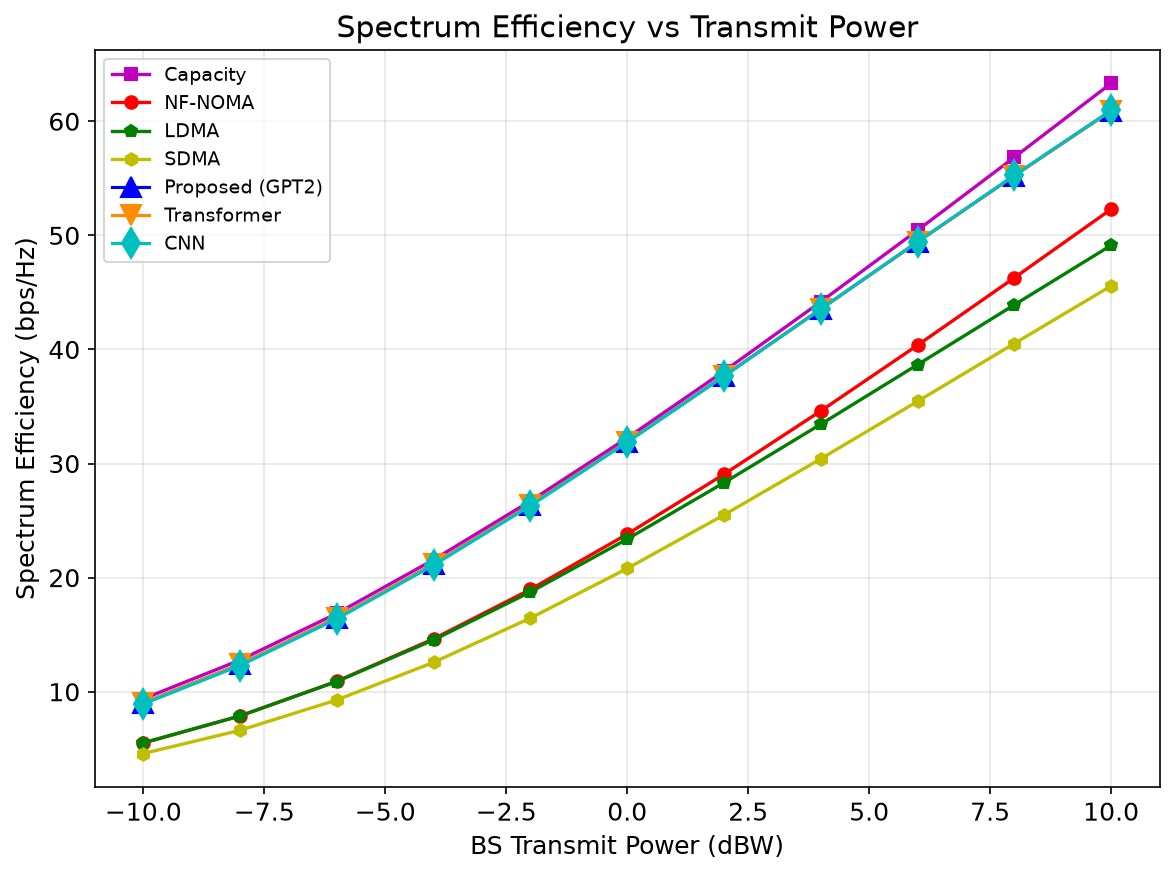
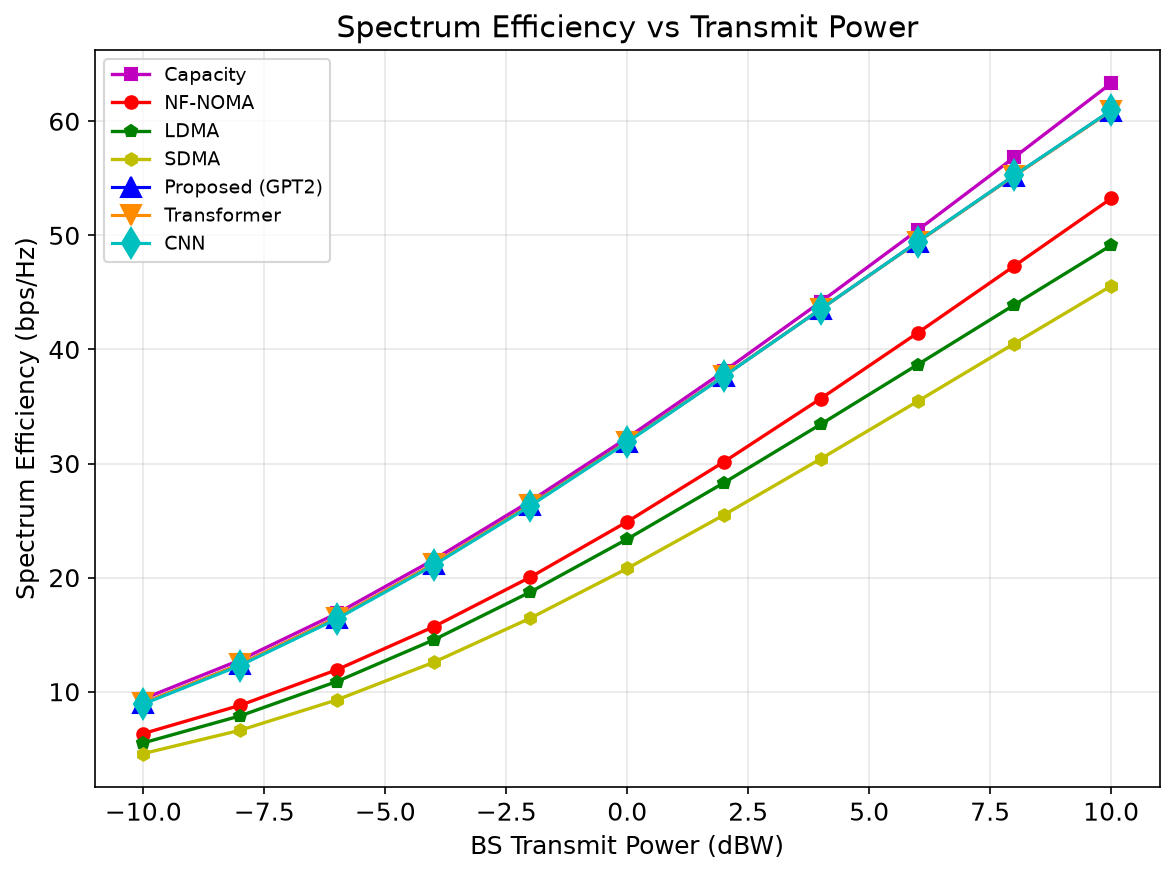
[接入] eval_baselines NOMA分支改用作者官方链NF_group_1→NF_NOMA(Imax=30,SE(end))：全量重评17点，其余baseline逐位不变；官方值比Python端口+0.4~1.1，距论文-0.5~-3.2（已知实现差异）

diff --git a/eval_baselines.py b/eval_baselines.py
@@ -23,7 +23,9 @@ base_output = r"C:\Users\17859\Desktop\files\Grad_Project\LLM for LAE\Codes_v1\o
 
 parser = argparse.ArgumentParser()
 parser.add_argument('--quick', action='store_true', help='Skip Rmin/alpha sweeps')
-parser.add_argument('--matlab', action='store_true', help='Use MATLAB NOMA (author fmincon+WMMSE)')
+parser.add_argument('--matlab', action='store_true', help='(deprecated) NOMA 默认已是作者官方链；本开关无额外作用')
+parser.add_argument('--noma-python', action='store_true',
+                    help='NF-NOMA 用旧 Python 端口 noma_rate（对照用）；默认用作者官方链 NF_group_1→NF_NOMA')
 args = parser.parse_args()
 
 
@@ -531,6 +533,55 @@ def eval_baseline_with_penalty(loader, rate_fn, K_eval=None, sigma2=None, P_tota
     return np.mean(rates)
 
 
+# ===================== NF-NOMA 官方调用链（作者 [34] 实现）=====================#
+
+NOMA_OFFICIAL_CACHE = {}
+
+
+def eval_noma_official(test_loader, K_eval=None, sigma2=None, P_total=1.0):
+    """NF-NOMA = 作者官方调用链 NF_group_1→NF_NOMA(Hr,F,setf,K,rf,σ²,P,Imax=30)
+    （codes-NFNOMA/main_near_field_NOMA.m:168-190 同款），报告口径 SE(end)（main:207）。
+    经 MATLAB 并行执行；与 eval_baseline 相同返回值（样本均值 float）。
+    按 (K_eval, sigma2, P_total) 缓存，供 K/P 扫描与 Fig.7/8 常数线复用。"""
+    if sigma2 is None:
+        sigma2 = 10 ** (-20 / 10)
+    if K_eval is None:
+        K_eval = K
+    key = (int(K_eval), round(float(sigma2), 12), round(float(P_total), 12))
+    if key in NOMA_OFFICIAL_CACHE:
+        return NOMA_OFFICIAL_CACHE[key]
+
+    import subprocess
+    import scipy.io as sio
+    import time as _time
+
+    H_list = []
+    with torch.no_grad():
+        for data in test_loader:
+            H_list.append(_extract_H(data, K_eval))
+    H_all = torch.cat(H_list, dim=0).cpu().numpy().astype(np.complex128)   # [B,K,N] complex
+
+    mat_in = os.path.join(base_output, '_noma_official_input.mat')
+    mat_out = os.path.join(base_output, '_noma_official_output.mat')
+    sio.savemat(mat_in, {'H_batch': H_all, 'sigma2': float(sigma2), 'P_total': float(P_total)})
+
+    drv_dir = os.path.join(base_output, '_author_matlab')
+    cmd = f"addpath('{drv_dir}'); run_noma_official_batch('{mat_in}','{mat_out}')"
+    matlab = r'C:\Program Files\MATLAB\R2024a\bin\matlab.exe'
+    t0 = _time.time()
+    proc = subprocess.run([matlab, '-batch', cmd], capture_output=True, text=True, timeout=7200)
+    if proc.returncode != 0:
+        raise RuntimeError(f'官方 NF-NOMA (MATLAB) 失败: {proc.stderr[-800:]}')
+    out = sio.loadmat(mat_out)
+    SE_end = out['SE_end'].flatten().astype(float)
+    n_fail = int(out['fail'].flatten()[0]) if 'fail' in out else 0
+    r = float(np.nanmean(SE_end))
+    print(f'    [official NF-NOMA] K={K_eval} P={P_total:.4f}W sigma2={float(sigma2):.4f} '
+          f'-> {r:.4f}  ({len(SE_end)} samples, fail={n_fail}, {_time.time()-t0:.0f}s)')
+    NOMA_OFFICIAL_CACHE[key] = r
+    return r
+
+
 # ===================== Main =====================#
 
 def main():
@@ -543,7 +594,7 @@ def main():
         test_loader = load_test_set(use_raw=False)
         print(f"Test set: {len(test_loader.dataset)} samples (normalized channels)")
 
-    noma_fn = noma_rate_matlab if args.matlab else noma_rate
+    noma_fn = noma_rate  # 仅 --noma-python 时经批循环使用；默认走官方链（见 evl）
     baselines = {
         'Capacity': dpc_rate,
         'NF-NOMA': noma_fn,
@@ -551,13 +602,23 @@ def main():
         'SDMA': sdma_rate,
     }
 
+    def evl(name, fn, K_eval=None, sigma2=None, P_total=1.0, rmin=None):
+        # NF-NOMA 默认 = 作者官方调用链（MATLAB）；--noma-python 时回落旧端口
+        if name == 'NF-NOMA' and not args.noma_python:
+            return eval_noma_official(test_loader, K_eval=K_eval, sigma2=sigma2, P_total=P_total)
+        if rmin is None:
+            return eval_baseline(test_loader, fn, K_eval=K_eval, sigma2=sigma2, P_total=P_total)
+        return eval_baseline_with_penalty(test_loader, fn, K_eval=K_eval, sigma2=sigma2,
+                                          P_total=P_total, rmin=rmin)
+    print(f"NOMA implementation: {'python port (--noma-python)' if args.noma_python else 'official NF_group_1->NF_NOMA chain (Imax=30)'}")
+
     # ===== K sweep (Fig.6) =====
     print("\n===== K Sweep (5-10) =====")
     k_results = {}
     for k in range(5, 11):
         k_results[str(k)] = {}
         for name, fn in baselines.items():
-            r = eval_baseline(test_loader, fn, K_eval=k)
+            r = evl(name, fn, K_eval=k)
             k_results[str(k)][name] = r
             print(f"  K={k} {name}: {r:.4f}")
     results['k_sweep'] = k_results
@@ -571,7 +632,7 @@ def main():
         P_total = 10 ** (P_dBW / 10)  # Convert dBW to Watts
         fig9[str(P_dBW)] = {}
         for name, fn in baselines.items():
-            r = eval_baseline(test_loader, fn, sigma2=sigma2_fixed, P_total=P_total)
+            r = evl(name, fn, sigma2=sigma2_fixed, P_total=P_total)
             fig9[str(P_dBW)][name] = r
             print(f"  P={P_dBW:>3}dBW ({P_total:.4f}W) {name}: {r:.4f}")
     results['fig9'] = fig9
@@ -582,7 +643,7 @@ def main():
         fig7 = {}
         base_rates = {}
         for name, fn in baselines.items():
-            base_rates[name] = eval_baseline(test_loader, fn)
+            base_rates[name] = evl(name, fn)
         for alpha in [0.1, 0.2, 0.3, 0.4, 0.5, 0.6, 0.7, 0.8, 0.9]:
             fig7[str(alpha)] = dict(base_rates)
         print(f"  Constant rates: " + " ".join(f"{n}={v:.4f}" for n, v in base_rates.items()))
@@ -594,7 +655,7 @@ def main():
         for rmin in [0, 0.2, 0.4, 0.6, 0.8, 1.0]:
             fig8[str(rmin)] = {}
             for name, fn in baselines.items():
-                r = eval_baseline_with_penalty(test_loader, fn, rmin=rmin)
+                r = evl(name, fn, rmin=rmin)
                 fig8[str(rmin)][name] = r
                 print(f"  Rmin={rmin:.1f} {name}: {r:.4f}")
         results['fig8'] = fig8

diff --git a/output/_author_matlab/run_noma_official_batch.m b/output/_author_matlab/run_noma_official_batch.m
@@ -1,0 +1,82 @@
+function run_noma_official_batch(input_file, output_file)
+% 正式评估用：官方 NF-NOMA 调用链（main_near_field_NOMA.m:168-190 同款）逐样本并行（parfor）。
+% 算法/设置与 run_noma_official_chain 完全一致（Imax=30, NF_group_1→NF_NOMA），
+% 仅并行化样本循环。官方文件零改动。
+off = 'C:\Users\17859\Desktop\files\Grad_Project\LLM for LAE\codes-NFNOMA\codes-NFNOMA';
+cd(off); addpath(off, '-begin');
+
+N = 256; d = 0.005; lam = 0.01; delta = 1.8; rho_min = 4;
+Imax = 30;   % 官方 main:32
+
+data = load(input_file);
+H_batch = data.H_batch;      % [B,K,N] complex
+sigma2 = data.sigma2;
+P_total = data.P_total;
+[B, K_, ~] = size(H_batch);
+
+[w_near, ~, ~] = QuaCode(N, d, lam, delta, rho_min);
+wr = reshape(w_near, N, []);
+
+p = gcp('nocreate');
+if isempty(p)
+    parpool('local');
+end
+
+SE_end = nan(B, 1); true_rate = nan(B, 1);
+power_user = nan(B, K_); rf_nums = zeros(B, 1); fail_flag = zeros(B, 1);
+tic;
+parfor b = 1:B
+    H_b = squeeze(H_batch(b, :, :));          % [K,N]，与官方 H_mul_user 同布局
+    try
+        Ht = (H_b * conj(wr)).';              % main:169-170
+        [Hr, F, rf_num, setf] = NF_group_1(Ht, K_, Ht);                    % main:171
+        [SE, ~, ~, pw] = NF_NOMA(Hr, F, setf, K_, rf_num, sigma2, P_total, Imax);  % main:190
+        SE_end(b) = SE(end);                  % main:207 报告口径
+        [tr, pu] = true_rate_at_power(Hr, F, setf, rf_num, pw, sigma2);
+        true_rate(b) = tr;
+        power_user(b, :) = pu;
+        rf_nums(b) = rf_num;
+    catch
+        fail_flag(b) = 1;
+    end
+end
+elapsed = toc;
+fail = sum(fail_flag);
+fprintf('official batch: B=%d fail=%d elapsed=%.1fs  SE_end mean=%.4f true mean=%.4f\n', ...
+    B, fail, elapsed, mean(SE_end, 'omitnan'), mean(true_rate, 'omitnan'));
+save(output_file, 'SE_end', 'true_rate', 'power_user', 'rf_nums', 'fail', 'elapsed');
+end
+
+function [r, p_user] = true_rate_at_power(Hr, F, setf, rf_num, pw, sigma2)
+% myfun_NF 的 bet 模型在 fmincon 返回功率处的真实 rate（等价 A,C 取 MMSE 最优）
+K_ = size(F, 2);
+Fi = F;
+for k = 1:K_
+    Fi(:, k) = Fi(:, k) / norm(Fi(:, k));    % NF_NOMA:25-28 同款列归一
+end
+H_eq = Hr' * Fi;                             % NF_NOMA:29-30 同款
+ind = zeros(1, rf_num); usel = 0;
+for n = 1:rf_num
+    usern = setf(n, :); usern(usern == 0) = [];
+    ind(n) = usel + length(usern); usel = ind(n);
+end
+ind = [0, ind];
+p_user = zeros(1, K_);
+r = 0;
+for n = 1:rf_num
+    usern = setf(n, :); usern(usern == 0) = [];
+    for m = 1:length(usern)
+        u = usern(m);
+        p_um = pw(ind(n) + m);
+        p_user(u) = p_um;
+        bet = abs(H_eq(u, u))^2 * sum(pw(ind(n) + 1:ind(n) + m - 1)) + sigma2;   % myfun_NF:21
+        for j = 1:rf_num
+            if j ~= n
+                usern_j = setf(j, :); usern_j(usern_j == 0) = [];
+                bet = bet + abs(H_eq(u, usern_j(1)))^2 * sum(pw(ind(j) + 1:ind(j + 1)));  % myfun_NF:24
+            end
+        end
+        r = r + log2(1 + p_um * abs(H_eq(u, u))^2 / bet);
+    end
+end
+end

diff --git a/output/_check_integration.py b/output/_check_integration.py
@@ -1,0 +1,28 @@
+import json
+new = json.load(open(r'output\eval_baselines_results.json'))
+old = json.load(open(r'output\eval_baselines_results.python_noma.bak.json'))
+paper_k = {'5': 18.0333, '6': 20.1004, '7': 21.8992, '8': 23.7766, '9': 25.2912, '10': 26.6839}
+paper_p = {'-10': 6.8764, '-8': 9.5466, '-6': 12.8684, '-4': 16.9356, '-2': 21.5639,
+           '0': 26.7373, '2': 32.4356, '4': 38.1334, '6': 44.2091, '8': 50.2751, '10': 56.4159}
+print('== Fig.6 K (NF-NOMA) ==')
+print(f'{"K":>3} {"paper":>8} {"official":>9} {"python_old":>10} {"new-paper":>9} {"new-old":>8}')
+for k in ['5', '6', '7', '8', '9', '10']:
+    n = new['k_sweep'][k]['NF-NOMA']; o = old['k_sweep'][k]['NF-NOMA']; p = paper_k[k]
+    print(f'{k:>3} {p:8.4f} {n:9.4f} {o:10.4f} {n-p:+9.4f} {n-o:+8.4f}')
+print('== Fig.9 P (NF-NOMA) ==')
+print(f'{"P":>4} {"paper":>8} {"official":>9} {"python_old":>10} {"new-paper":>9} {"new-old":>8}')
+for p in ['-10', '-8', '-6', '-4', '-2', '0', '2', '4', '6', '8', '10']:
+    n = new['fig9'][p]['NF-NOMA']; o = old['fig9'][p]['NF-NOMA']; pp = paper_p[p]
+    print(f'{p:>4} {pp:8.4f} {n:9.4f} {o:10.4f} {n-pp:+9.4f} {n-o:+8.4f}')
+print('== 其余 baseline 未变性检查 ==')
+for k in ['5', '10']:
+    for m in ['Capacity', 'LDMA', 'SDMA']:
+        same = abs(new['k_sweep'][k][m] - old['k_sweep'][k][m]) < 1e-9
+        print(f'  K={k} {m}: {new["k_sweep"][k][m]:.4f} unchanged={same}')
+for p in ['-10', '0', '10']:
+    for m in ['Capacity', 'LDMA', 'SDMA']:
+        same = abs(new['fig9'][p][m] - old['fig9'][p][m]) < 1e-9
+        print(f'  P={p} {m}: {new["fig9"][p][m]:.4f} unchanged={same}')
+print('== Fig.7/8 NOMA 常数线 ==')
+print(f'  fig7 alpha=0.4 NF-NOMA = {new["fig7"]["0.4"]["NF-NOMA"]:.4f}（应=24.903 水平线）')
+print(f'  fig8 rmin=0.0..1.0 NF-NOMA = {[round(new["fig8"][r]["NF-NOMA"],4) for r in ["0","0.2","0.4","0.6","0.8","1.0"]]}')
